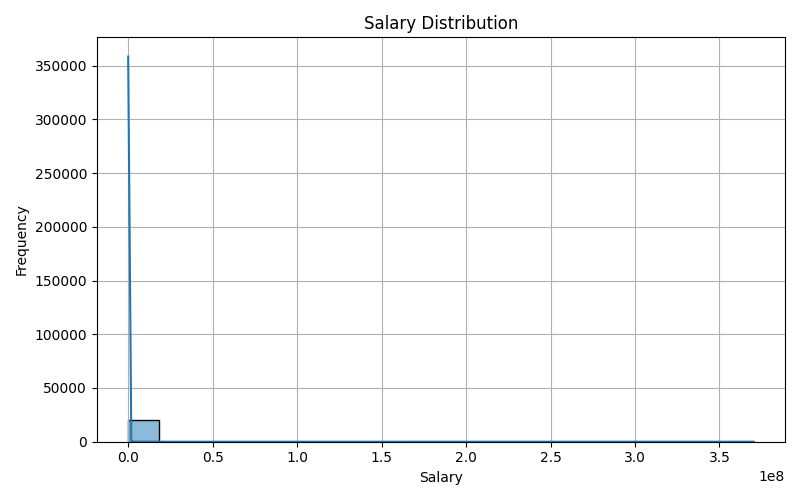
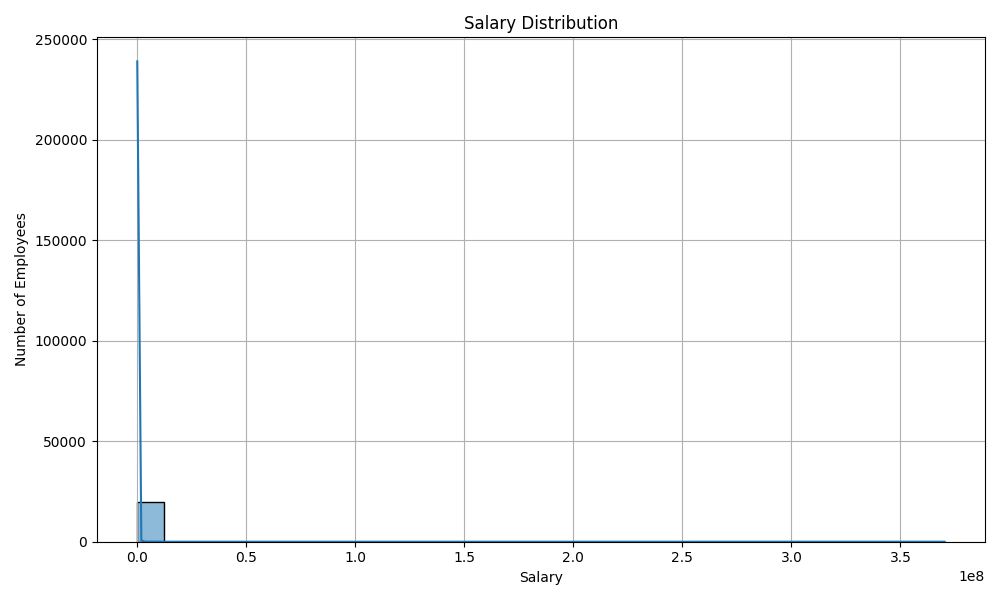
AH - Added solutions for the lab assignment

diff --git a/emp_validate.py b/emp_validate.py
@@ -58,11 +58,11 @@ invalid_cities_with_one_employee = city_counts[city_counts == 1].sum()
 managers_with_one_report = manager_counts[manager_counts == 1].sum()
 
 # Generate a histogram of salaries
-plt.figure(figsize=(8, 5))
-sns.histplot(salaries, kde=True, bins=20)
+plt.figure(figsize=(10, 6))
+sns.histplot(data=salaries, bins=30, kde=True)
 plt.title('Salary Distribution')
 plt.xlabel('Salary')
-plt.ylabel('Frequency')
+plt.ylabel('Number of Employees')
 plt.grid(True)
 plt.tight_layout()
 plt.savefig("salary_distribution.png")
@@ -84,3 +84,10 @@ print(f"Number of records that violate the cities has more than only one employe
 # Print result
 print(f"Number of managers with only one employee reporting to them: {managers_with_one_report}")
 
+mean_salary = statistics.mean(salaries)
+print(f"Average salary: ${mean_salary:,.2f}")
+
+if mean_salary > 60000:
+    print("Valid: Average salary is greater than $60,000.")
+else:
+    print("Invalid: Average salary is not greater than $60,000.")
